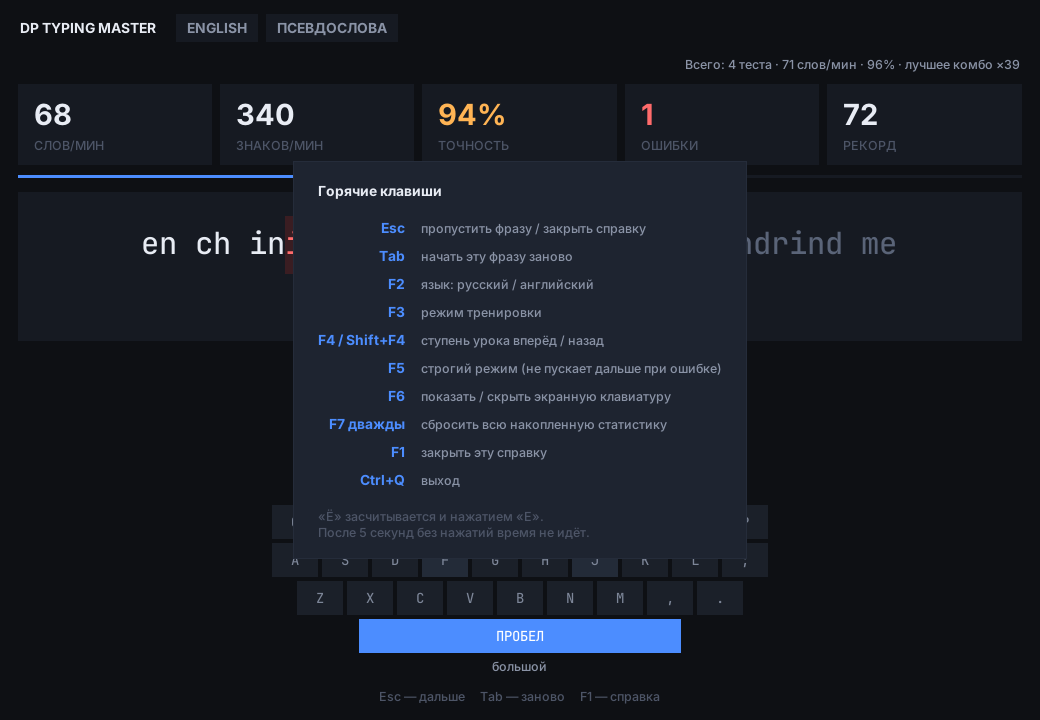
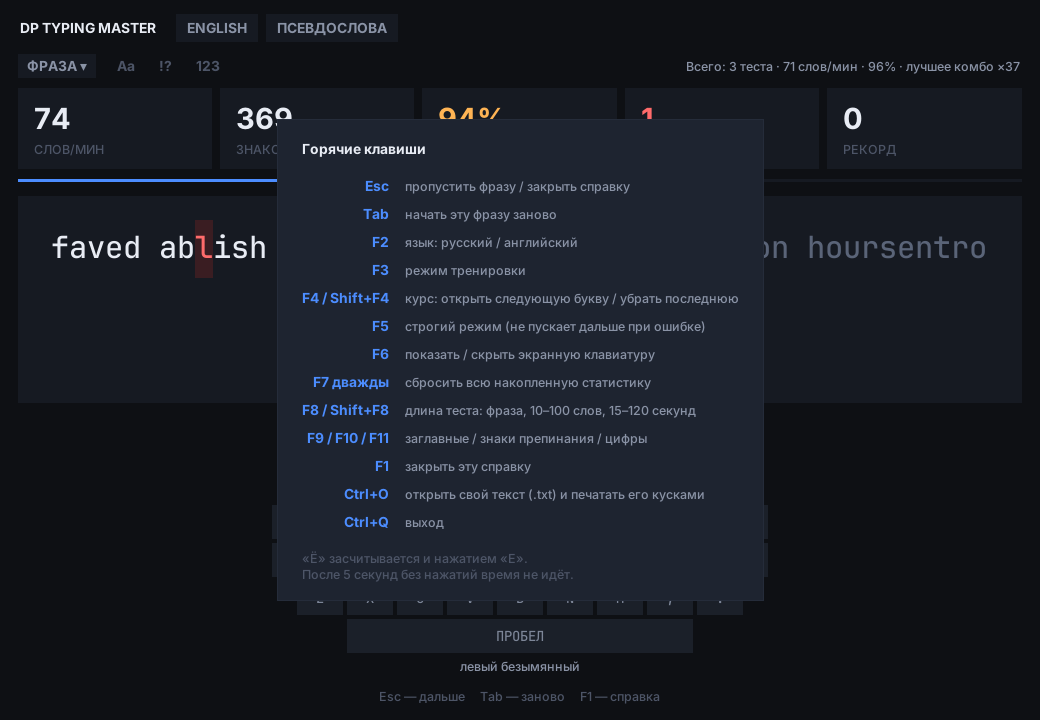
Версия 2.2.0: документация этапа «Настоящий текст»
- README: курс по модели keybr, «Свой текст», длина теста, опции текста,
  новые горячие клавиши (F8–F11, Ctrl+O), раздельные рекорды, скорость
  каждой клавиши; новые скриншоты.
- ROADMAP: этап 2.2 закрыт, решения по «понижению» в курсе и порядку букв,
  2.3 — следующий.
- AUDIT: исправлено 25 из 31 пункта; A-32 (Ctrl на русской раскладке)
  найден и исправлен по ходу.
- RESEARCH: таблица сравнения «на момент исследования / сейчас».
- CHANGELOG 2.2.0; tools/screenshots.py снимает курс, опции текста, тест на
  время и свой текст.

Claude-Session: https://claude.ai/code/session_018wRUN7mQLqZzkYB9BQtRY2

diff --git a/tools/screenshots.py b/tools/screenshots.py
@@ -87,11 +87,27 @@ def shot(win, out: Path, name: str) -> None:
     print(f"{path}  {w}x{h}")
 
 
+def course_progress(win, done: int, learning: int) -> None:
+    """Состояние курса «как после нескольких дней занятий»: ``done`` букв
+    освоены, ``learning`` — в работе. Только для иллюстрации — во временном
+    профиле, который скрипт создаёт сам."""
+    from dp_typing.course import MIN_SAMPLES, letter_order, target_cpm
+
+    target = target_cpm(win.course_target_wpm)
+    win.course[win.lang] = done + learning
+    for i, ch in enumerate(letter_order(win.lang)[: done + learning]):
+        win.profile.key_samples[ch] = MIN_SAMPLES + 10
+        win.profile.key_acc[ch] = 0.99
+        win.profile.key_speed[ch] = target * (1.3 if i < done else 0.6 + 0.1 * (i - done))
+
+
 def main(out: Path) -> int:
     if shutil.which("import") is None:
         print("нужен ImageMagick (команда import)", file=sys.stderr)
         return 1
     out.mkdir(parents=True, exist_ok=True)
+
+    from dp_typing.words import Length
 
     win = app_module.TypingApp()
     win.geometry("1040x720+0+0")
@@ -110,11 +126,13 @@ def main(out: Path) -> int:
         win.new_test()
         finish(win, frozenset(errors))
 
+    course_progress(win, done=7, learning=3)
     win.mode = Mode.LESSON
     win._refresh_chips()
     win.new_test()
-    finish(win)                                  # 100% → ступень повышается
-    shot(win, out, "04_lesson")
+    settle(win, 300)
+    type_chars(win, 16, frozenset({7}))
+    shot(win, out, "04_course")
 
     win.mode = Mode.ADAPTIVE
     win._refresh_chips()
@@ -143,6 +161,33 @@ def main(out: Path) -> int:
         press(win, ch)
     shot(win, out, "09_layout_notice")
 
+    win.rng.seed(8)                              # заглавные, знаки, цифры
+    win.options = win.options.__class__(caps=True, punct=True, digits=True)
+    win._refresh_chips()
+    win.new_test()
+    settle(win, 400)
+    session = win.session
+    while (not session.finished and session.pos < 40
+           and session.target[session.pos] not in ",.!?:;\"()"):
+        type_chars(win, 1)
+    shot(win, out, "10_text_options")
+
+    win.options = win.options.__class__()
+    win.set_length(Length("time", 60))
+    settle(win, 400)
+    type_chars(win, sum(len(line) for line in win._lines[:2]) + 6, frozenset({25}))
+    shot(win, out, "11_timed")
+
+    win.set_length(Length("phrase"))
+    win.mode = Mode.CUSTOM
+    win._refresh_chips()
+    win.new_test()
+    settle(win, 400)
+    type_chars(win, 22)
+    shot(win, out, "12_custom")
+
+    win.mode = Mode.COMMON
+    win._refresh_chips()
     win.geometry("760x560+0+0")
     settle(win, 500)
     win.new_test()

diff --git a/dp_typing/__init__.py b/dp_typing/__init__.py
@@ -1,4 +1,4 @@
 """DP Typing Master — тренажёр слепой печати для русской и английской раскладки."""
 
-__version__ = "2.1.0"
+__version__ = "2.2.0"
 __all__ = ["__version__"]

diff --git a/README.md b/README.md
@@ -41,10 +41,36 @@ python DP_Typing_Master.py
 
 | Режим | Что даёт |
 |---|---|
-| **Уроки** | Ступени от центра домашнего ряда до полного алфавита. Каждая ступень строго включает предыдущую — пройденные клавиши не пропадают. При точности от 96% ступень повышается сама. |
+| **Курс** | Буквы открываются по одной, как в keybr: сначала шесть самых частых, новая — когда каждая открытая набирается не медленнее целевой скорости (по умолчанию 35 слов/мин) и с точностью от 95%. Текст — настоящие слова и произносимые псевдослова только из открытых букв, с упором на самую слабую («фокус»). |
 | **Частотные слова** | Реальная лексика языка: 1200 самых употребимых слов. |
 | **Псевдослова** | Несуществующие, но произносимые слова из марковской модели, обученной на той же лексике. Тренируют моторику, не давая угадывать слово по началу. |
 | **Слабые клавиши** | Тренажёр считает, на каких буквах вы ошибаетесь, и подбирает слова с ними. На практике даёт примерно втрое больше контакта с проблемными буквами, чем обычный режим. |
+| **Свой текст** | Любой `.txt` (Ctrl+O) — книга, статья, документация — печатается кусками с закладкой: в следующий раз продолжите с того же места. Типографика («ёлочки», длинное тире, многоточие) приводится к тому, что есть на клавиатуре. Пока файла нет — встроенный пример. |
+
+![Курс: открыто 10 букв из 32, фокус на «Л» (в рамке), закрытые клавиши приглушены](docs/screenshots/04_course.png)
+
+Во второй строке курса — все буквы языка в порядке открытия: зелёные
+освоены, жёлтые в работе, белые только что открыты, синим выделена
+фокусная. Клик по чипу «КУРС» открывает меню: открыть или убрать букву
+вручную (F4 / Shift+F4) и выбрать целевую скорость — 25, 35, 45 или 60
+слов/мин.
+
+### Длина теста и опции текста
+
+Чип слева во второй строке (или **F8** / **Shift+F8**) задаёт длину теста:
+одна фраза, 10–100 слов или 15–120 секунд. В тесте на время справа
+появляется обратный отсчёт; длинный текст виден по три строки и
+прокручивается по мере набора.
+
+![Тест на 60 секунд: отсчёт справа, текст прокручивается построчно](docs/screenshots/11_timed.png)
+
+Переключатели **Аа**, **!?** и **123** (F9, F10, F11) добавляют к словам
+заглавные, знаки препинания и цифры. Клавиатура тогда показывает ряд цифр,
+знаки под Shift мелкими подписями и обе клавиши Shift — подсвечивается
+Shift *другой* рукой, как учат при слепом наборе. Запятая в русской раскладке
+— это Shift и точка, вопросительный знак — Shift и 7.
+
+![Заглавные, знаки и цифры: подсвечены «6» и левый Shift для двоеточия](docs/screenshots/10_text_options.png)
 
 ### Экраны
 
@@ -52,8 +78,8 @@ python DP_Typing_Master.py
 |---|---|
 | ![Первый запуск](docs/screenshots/01_start.png) | ![Итог фразы](docs/screenshots/03_result.png) |
 | Первый запуск: курсор на первой букве, на клавиатуре — следующая клавиша и палец | Итог фразы, рекорд и сводка за всё время |
-| ![Урок](docs/screenshots/04_lesson.png) | ![Слабые клавиши](docs/screenshots/05_adaptive.png) |
-| Урок пройден без ошибок — ступень повысилась сама | «Слабые клавиши»: слова подобраны под ваши ошибки |
+| ![Свой текст](docs/screenshots/12_custom.png) | ![Слабые клавиши](docs/screenshots/05_adaptive.png) |
+| «Свой текст»: встроенный пример, пока файл не открыт | «Слабые клавиши»: слова подобраны под ваши ошибки |
 | ![Английский, псевдослова](docs/screenshots/06_english_pseudo.png) | ![Справка](docs/screenshots/07_help.png) |
 | Английская раскладка, псевдослова | Справка по F1 |
 
@@ -82,14 +108,20 @@ python DP_Typing_Master.py
 | `F1` | справка |
 | `F2` | русский / английский |
 | `F3` | режим тренировки |
-| `F4` / `Shift+F4` | ступень урока вперёд / назад; вне уроков — открыть уроки |
+| `F4` / `Shift+F4` | курс: открыть следующую букву / убрать последнюю; вне курса — открыть курс |
 | `F5` | строгий режим — не пускает дальше, пока символ не набран верно |
 | `F6` | показать / скрыть экранную клавиатуру |
 | `F7` дважды | сбросить накопленную статистику (одно нажатие только спрашивает) |
+| `F8` / `Shift+F8` | длина теста: фраза, 10–100 слов, 15–120 секунд |
+| `F9` / `F10` / `F11` | заглавные / знаки препинания / цифры |
+| `Ctrl+O` | открыть свой текст (`.txt`) |
 | `Ctrl+Q` | выход |
 
-Прогресс, рекорды и статистика по буквам сохраняются между запусками
-(`~/.config/dp-typing-master/profile.json` или аналог для вашей ОС).
+Сочетания с Ctrl работают и на русской раскладке.
+
+Прогресс, рекорды, курс, статистика по буквам и закладка в своём тексте
+сохраняются между запусками (`~/.config/dp-typing-master/` или аналог для
+вашей ОС). Профиль версии 2.1 и раньше переносится автоматически.
 
 ## Метрики
 
@@ -106,6 +138,14 @@ python DP_Typing_Master.py
 **Засчитываются только дописанные фразы.** Пропущенная (`Esc`), начатая
 заново (`Tab`) или брошенная при выходе фраза не идёт в число тестов и в
 среднюю скорость, но её ошибки учитываются в режиме «Слабые клавиши».
+
+**Рекорды раздельные** — по языку, режиму, длине теста и опциям текста:
+урок на шести буквах и текст со знаками препинания — разные дисциплины.
+Побитый рекорд объявляется в итоге фразы.
+
+**Скорость каждой клавиши** — скользящее среднее времени от предыдущего
+нажатия до верного нажатия этой клавиши (паузы длиннее 5 секунд не в счёт).
+На ней держится курс.
 
 ## Разработка
 
@@ -124,8 +164,8 @@ CI (GitHub Actions) гоняет линтеры и все тесты под Xvfb
 xvfb-run -a -s "-screen 0 1280x900x24" python tools/screenshots.py docs/screenshots
 ```
 
-Логика (`engine.py`, `words.py`, `layout.py`, `storage.py`) не импортирует
-tkinter и проверяется headless. Интерфейс (`app.py`) покрыт отдельными
+Логика (`engine.py`, `words.py`, `layout.py`, `course.py`, `customtext.py`,
+`storage.py`, `fmt.py`) не импортирует tkinter и проверяется headless. Интерфейс (`app.py`) покрыт отдельными
 тестами, которые поднимают реальное окно и стучат по нему клавишами; без
 дисплея они пропускаются.
 

diff --git a/ROADMAP.md b/ROADMAP.md
@@ -23,8 +23,9 @@
 
 ## Где мы сейчас
 
-**Версия 2.1.0** (октябрь 2026, PR #2): этап 2.1 закрыт целиком — 20 пунктов
-аудита исправлены полностью и 1 частично, есть CI, 163 теста. Следующий этап — 2.2.
+**Версия 2.2.0** (ноябрь 2026, PR #2): этапы 2.1 и 2.2 закрыты целиком —
+25 из 31 пункта аудита исправлены, есть CI, 265 тестов. Следующий этап — 2.3
+«Видно прогресс».
 
 ## Принятые решения
 
@@ -34,6 +35,8 @@
 | 31.10.2026 | Буква «ё» | Слова с «ё» остаются; «е» на её месте засчитывается; клавиша «ё» есть на экранной клавиатуре |
 | 31.10.2026 | Неверная раскладка ОС и Caps Lock | Предупреждать плашкой и **засчитывать** такие нажатия как ошибки |
 | 31.10.2026 | Зависимости | Допустимы, если оправданы функцией (см. принципы) |
+| 01.11.2026 | «Понижение» в курсе | Открытые буквы не закрываются сами: если освоенная буква просела, она снова становится фокусной и чаще встречается в тексте. Закрыть букву вручную — Shift+F4 |
+| 01.11.2026 | Порядок букв в курсе | По частоте в словаре языка, как у keybr (ru: о е а и т н …), а не по рядам клавиатуры: настоящие слова появляются с первой же ступени |
 
 Обозначения: ✅ сделано · 🔜 следующий этап · ⬜ запланировано.
 Оценка трудоёмкости: **S** — до пары часов, **M** — день, **L** — несколько дней.
@@ -64,29 +67,32 @@
 | ✅ | Корректный масштаб на HiDPI-экранах | A-04 | M |
 | ✅ | CI на GitHub Actions: ruff, flake8, pytest под Xvfb на Python 3.9–3.13 | A-28, A-29 | S |
 
-## 2.2 — Настоящий текст 🔜
+## 2.2 — Настоящий текст ✅
 
-Цель: навык должен переноситься на реальную работу. Следующий этап.
-
-| | Задача | Источник | Оценка |
-|---|---|---|---|
-| 🔜 | Переключатели «Заглавные», «Пунктуация», «Цифры»; подсказка Shift и ряд цифр на клавиатуре | A-27, Monkeytype, VerseQ | L |
-| 🔜 | Тесты на время (15/30/60/120 с) и на число слов | Monkeytype, TIPP10 | M |
-| 🔜 | Режим «Свой текст»: загрузка `.txt`, печать кусками с продолжением с места | Amphetype, TIPP10, Клавогонки | M |
-| 🔜 | Псевдослова без реальных слов и обрывков короче 3 букв | A-17 | S |
-| 🔜 | Рекорды отдельно по языку и режиму | A-14, Monkeytype | S |
-| 🔜 | Курс по модели keybr: ступень растёт, когда каждая её клавиша набирается с целевой скоростью и точностью; есть понижение; реальные слоги вместо случайных букв | A-15, A-16, keybr | L |
-
-## 2.3 — Видно прогресс
+Цель: навык должен переноситься на реальную работу.
 
 | | Задача | Источник | Оценка |
 |---|---|---|---|
-| ⬜ | История тестов (`sqlite3` из стандартной библиотеки), перенос старого профиля | A-26, Amphetype | M |
-| ⬜ | Экран статистики: график скорости и точности по дням | все аналоги | M |
-| ⬜ | Тепловая карта ошибок прямо на экранной клавиатуре | A-25, Monkeytype, ClickClack | M |
-| ⬜ | Слабые биграммы: учёт в профиле, подмешивание в адаптивный режим | ngram-type, Amphetype | M |
-| ⬜ | Экран результата: разбор ошибок по символам, ритмичность | Monkeytype | M |
-| ⬜ | Дневная цель и серия дней | TypingClub | S |
+| ✅ | Переключатели «Заглавные», «Пунктуация», «Цифры»; подсказка Shift и ряд цифр на клавиатуре | A-27, Monkeytype, VerseQ | L |
+| ✅ | Тесты на время (15/30/60/120 с) и на число слов | Monkeytype, TIPP10 | M |
+| ✅ | Режим «Свой текст»: загрузка `.txt`, печать кусками с продолжением с места | Amphetype, TIPP10, Клавогонки | M |
+| ✅ | Псевдослова без реальных слов и обрывков короче 3 букв | A-17 | S |
+| ✅ | Рекорды отдельно по языку, режиму, длине теста и опциям | A-14, Monkeytype | S |
+| ✅ | Курс по модели keybr: буква открывается, когда каждая открытая набирается с целевой скоростью и точностью; просевшая буква снова в фокусе; слова и слоги вместо случайных букв | A-15, A-16, keybr | L |
+| ✅ | Сочетания с Ctrl работают на русской раскладке *(найдено по ходу)* | A-32 | S |
+
+## 2.3 — Видно прогресс 🔜
+
+Следующий этап.
+
+| | Задача | Источник | Оценка |
+|---|---|---|---|
+| 🔜 | История тестов (`sqlite3` из стандартной библиотеки), перенос старого профиля | A-26, Amphetype | M |
+| 🔜 | Экран статистики: график скорости и точности по дням | все аналоги | M |
+| 🔜 | Тепловая карта ошибок прямо на экранной клавиатуре | A-25, Monkeytype, ClickClack | M |
+| 🔜 | Слабые биграммы: учёт в профиле, подмешивание в адаптивный режим | ngram-type, Amphetype | M |
+| 🔜 | Экран результата: разбор ошибок по символам, ритмичность | Monkeytype | M |
+| 🔜 | Дневная цель и серия дней | TypingClub | S |
 
 ## 2.4 — Удобство
 

diff --git a/docs/AUDIT.md b/docs/AUDIT.md
@@ -1,9 +1,9 @@
 # Аудит реализации
 
 Аудит проведён 31.10.2026 на версии 2.0.0. Статусы обновлены после этапа
-2.1 (PR #2): из 31 пункта 20 исправлены полностью и 1 частично, остальные
-распределены по этапам
-[ROADMAP](../ROADMAP.md).
+2.2 (PR #2): из 31 пункта исправлены 25, остальные 6 распределены по этапам
+[ROADMAP](../ROADMAP.md). Ещё один дефект (A-32) найден и исправлен по ходу
+этапа 2.2.
 
 **Как проверяли.** Прочитан весь код и тесты. Приложение запускалось на
 настоящем Tk под Xvfb (Python 3.12, Tk 8.6) с подменой часов, чтобы скорость
@@ -25,17 +25,23 @@
 
 | ID | Проблема | Важность | Этап |
 |---|---|---|---|
-| A-27 | Тренируются только строчные буквы и пробел: нет заглавных, пунктуации и цифр, хотя на клавиатуре нарисованы «.», «,», «;». | высокая | 2.2 |
-| A-14 | **Рекорд WPM общий** для языков и режимов: фраза из урока («рад пора пол») ставит рекорд, недостижимый на обычном тексте. | средняя | 2.2 |
-| A-15 | Ступень урока растёт после одной фразы с точностью от 96%, скорость не учитывается, понижения нет. *Перескок F4 по кругу исправлен в 2.1.* | средняя | 2.2 |
-| A-16 | На первой ступени реальных слов 7 (ru) и 0 (en), поэтому генерируется набор букв вроде «аопр»; на второй — 26 и 17 слов, частые повторы. | средняя | 2.2 |
 | A-24 | Все функции только на F-клавишах: на многих ноутбуках нужен Fn, меню и панели настроек нет. | средняя | 2.4 |
 | A-25 | Адаптивный режим работает «вслепую»: какие клавиши слабые, пользователь не видит. | средняя | 2.3 |
 | A-26 | Нет истории тестов — хранятся только суммы, прогресс во времени не показать. | средняя | 2.3 |
 | A-31 | Нет готовых сборок для Windows и macOS — нужен установленный Python. | средняя | 3.0 |
-| A-17 | Псевдослова: 12% — двухбуквенные обрывки, около 15% совпадают с реальными словами («мой», «day»), хотя режим обещает несуществующие. | низкая | 2.2 |
 | A-23 | Проверяется только Ctrl: Alt/Cmd + буква печатается в тест. На Windows AltGr = Ctrl+Alt, и символы через AltGr игнорируются (для ru/en не нужны, но помешают новым раскладкам). | низкая | 3.0 |
-| A-30 | `app.py` — около 1000 строк, один класс отвечает за всё; тесты опираются на приватные атрибуты. | низкая | 3.0 |
+| A-30 | `app.py` — около 1700 строк (после 2.2), один класс отвечает за всё; тесты опираются на приватные атрибуты. | низкая | 3.0 |
+
+## Исправлено в 2.2
+
+| ID | Было | Стало | Важность |
+|---|---|---|---|
+| A-27 | Тренировались только строчные буквы и пробел | Переключатели заглавных, знаков препинания и цифр; клавиатура с рядом цифр и Shift другой рукой; режим «Свой текст» | высокая |
+| A-14 | Рекорд общий для языков и режимов: урок «рад пора пол» ставил рекорд, недостижимый на обычном тексте | Рекорды по языку, режиму, длине теста и опциям текста | средняя |
+| A-15 | Ступень урока росла после одной фразы с точностью от 96%, скорость не учитывалась | Курс по модели keybr: буква открывается, когда каждая открытая набирается с целевой скоростью и точностью от 95% | средняя |
+| A-16 | На первой ступени вместо слов — наборы букв вроде «аопр» | Слова и псевдослова из открытых букв по марковской модели языка | средняя |
+| A-17 | 12% псевдослов — обрывки из двух букв, ~15% — настоящие слова | Не короче трёх букв и ни одного настоящего слова | низкая |
+| A-32 | Ctrl+Q не срабатывал на русской раскладке: у клавиши Q там символ «й», и привязка к `<Control-q>` молчала *(найдено в ходе 2.2)* | Сочетания с Ctrl привязаны и к кириллическим символам клавиш | средняя |
 
 ## Исправлено в 2.1
 

diff --git a/CHANGELOG.md b/CHANGELOG.md
@@ -4,6 +4,42 @@
 версии — по [SemVer](https://semver.org/lang/ru/). Идентификаторы `A-xx` —
 пункты [аудита](docs/AUDIT.md).
 
+## [2.2.0] — 2026-11-01
+
+Этап «Настоящий текст» из [ROADMAP](ROADMAP.md).
+
+### Добавлено
+- **Курс по модели keybr** вместо четырёх ступеней по рядам (A-15, A-16).
+  Буквы открываются по одной в порядке частоты, начиная с шести. Следующая —
+  когда каждая открытая набирается не медленнее целевой скорости (25/35/45/60
+  слов/мин) и с точностью от 95%. Фокус — на самой слабой букве. Текст —
+  слова и псевдослова только из открытых букв. Полоса букв с цветом
+  освоенности, приглушённые закрытые клавиши, рамка вокруг фокусной.
+- **Заглавные, знаки препинания, цифры** — переключатели «Аа», «!?», «123»
+  (F9–F11, A-27). Клавиатура показывает ряд цифр, знаки под Shift и обе
+  клавиши Shift; подсвечивается Shift другой рукой.
+- **Длина теста**: фраза, 10–100 слов, 15–120 секунд (чип «ФРАЗА ▾», F8).
+  Обратный отсчёт или счётчик слов, длинный текст прокручивается по три строки.
+- **Свой текст** (Ctrl+O): любой `.txt` кусками, с закладкой, с приведением
+  типографики к клавиатуре. Встроенный пример, пока файл не открыт.
+- Скорость и точность каждой клавиши в профиле (скользящее среднее).
+- «Новый рекорд!» в итоге фразы.
+
+### Изменено
+- Рекорды раздельны по языку, режиму, длине теста и опциям текста (A-14).
+- Псевдослова не короче трёх букв и не совпадают с настоящими словами (A-17).
+- Формат профиля 2; профиль версии 1 переносится автоматически, общий рекорд
+  из него сохраняется отдельно.
+- Режим «Уроки» называется «Курс»; F4 / Shift+F4 открывают и убирают буквы.
+- В тесном окне сначала ужимается клавиатура, и только потом включается
+  компактный вид.
+
+### Исправлено
+- Ctrl+Q (и новый Ctrl+O) работают на русской раскладке (A-32).
+- Caps Lock не путается с зажатым Shift, когда в тексте есть заглавные.
+- После окончания теста на время отсчёт показывал «1» вместо «0» на больших
+  значениях системного таймера.
+
 ## [2.1.0] — 2026-10-31
 
 Этап «Честные метрики и меньше сюрпризов» из [ROADMAP](ROADMAP.md).
